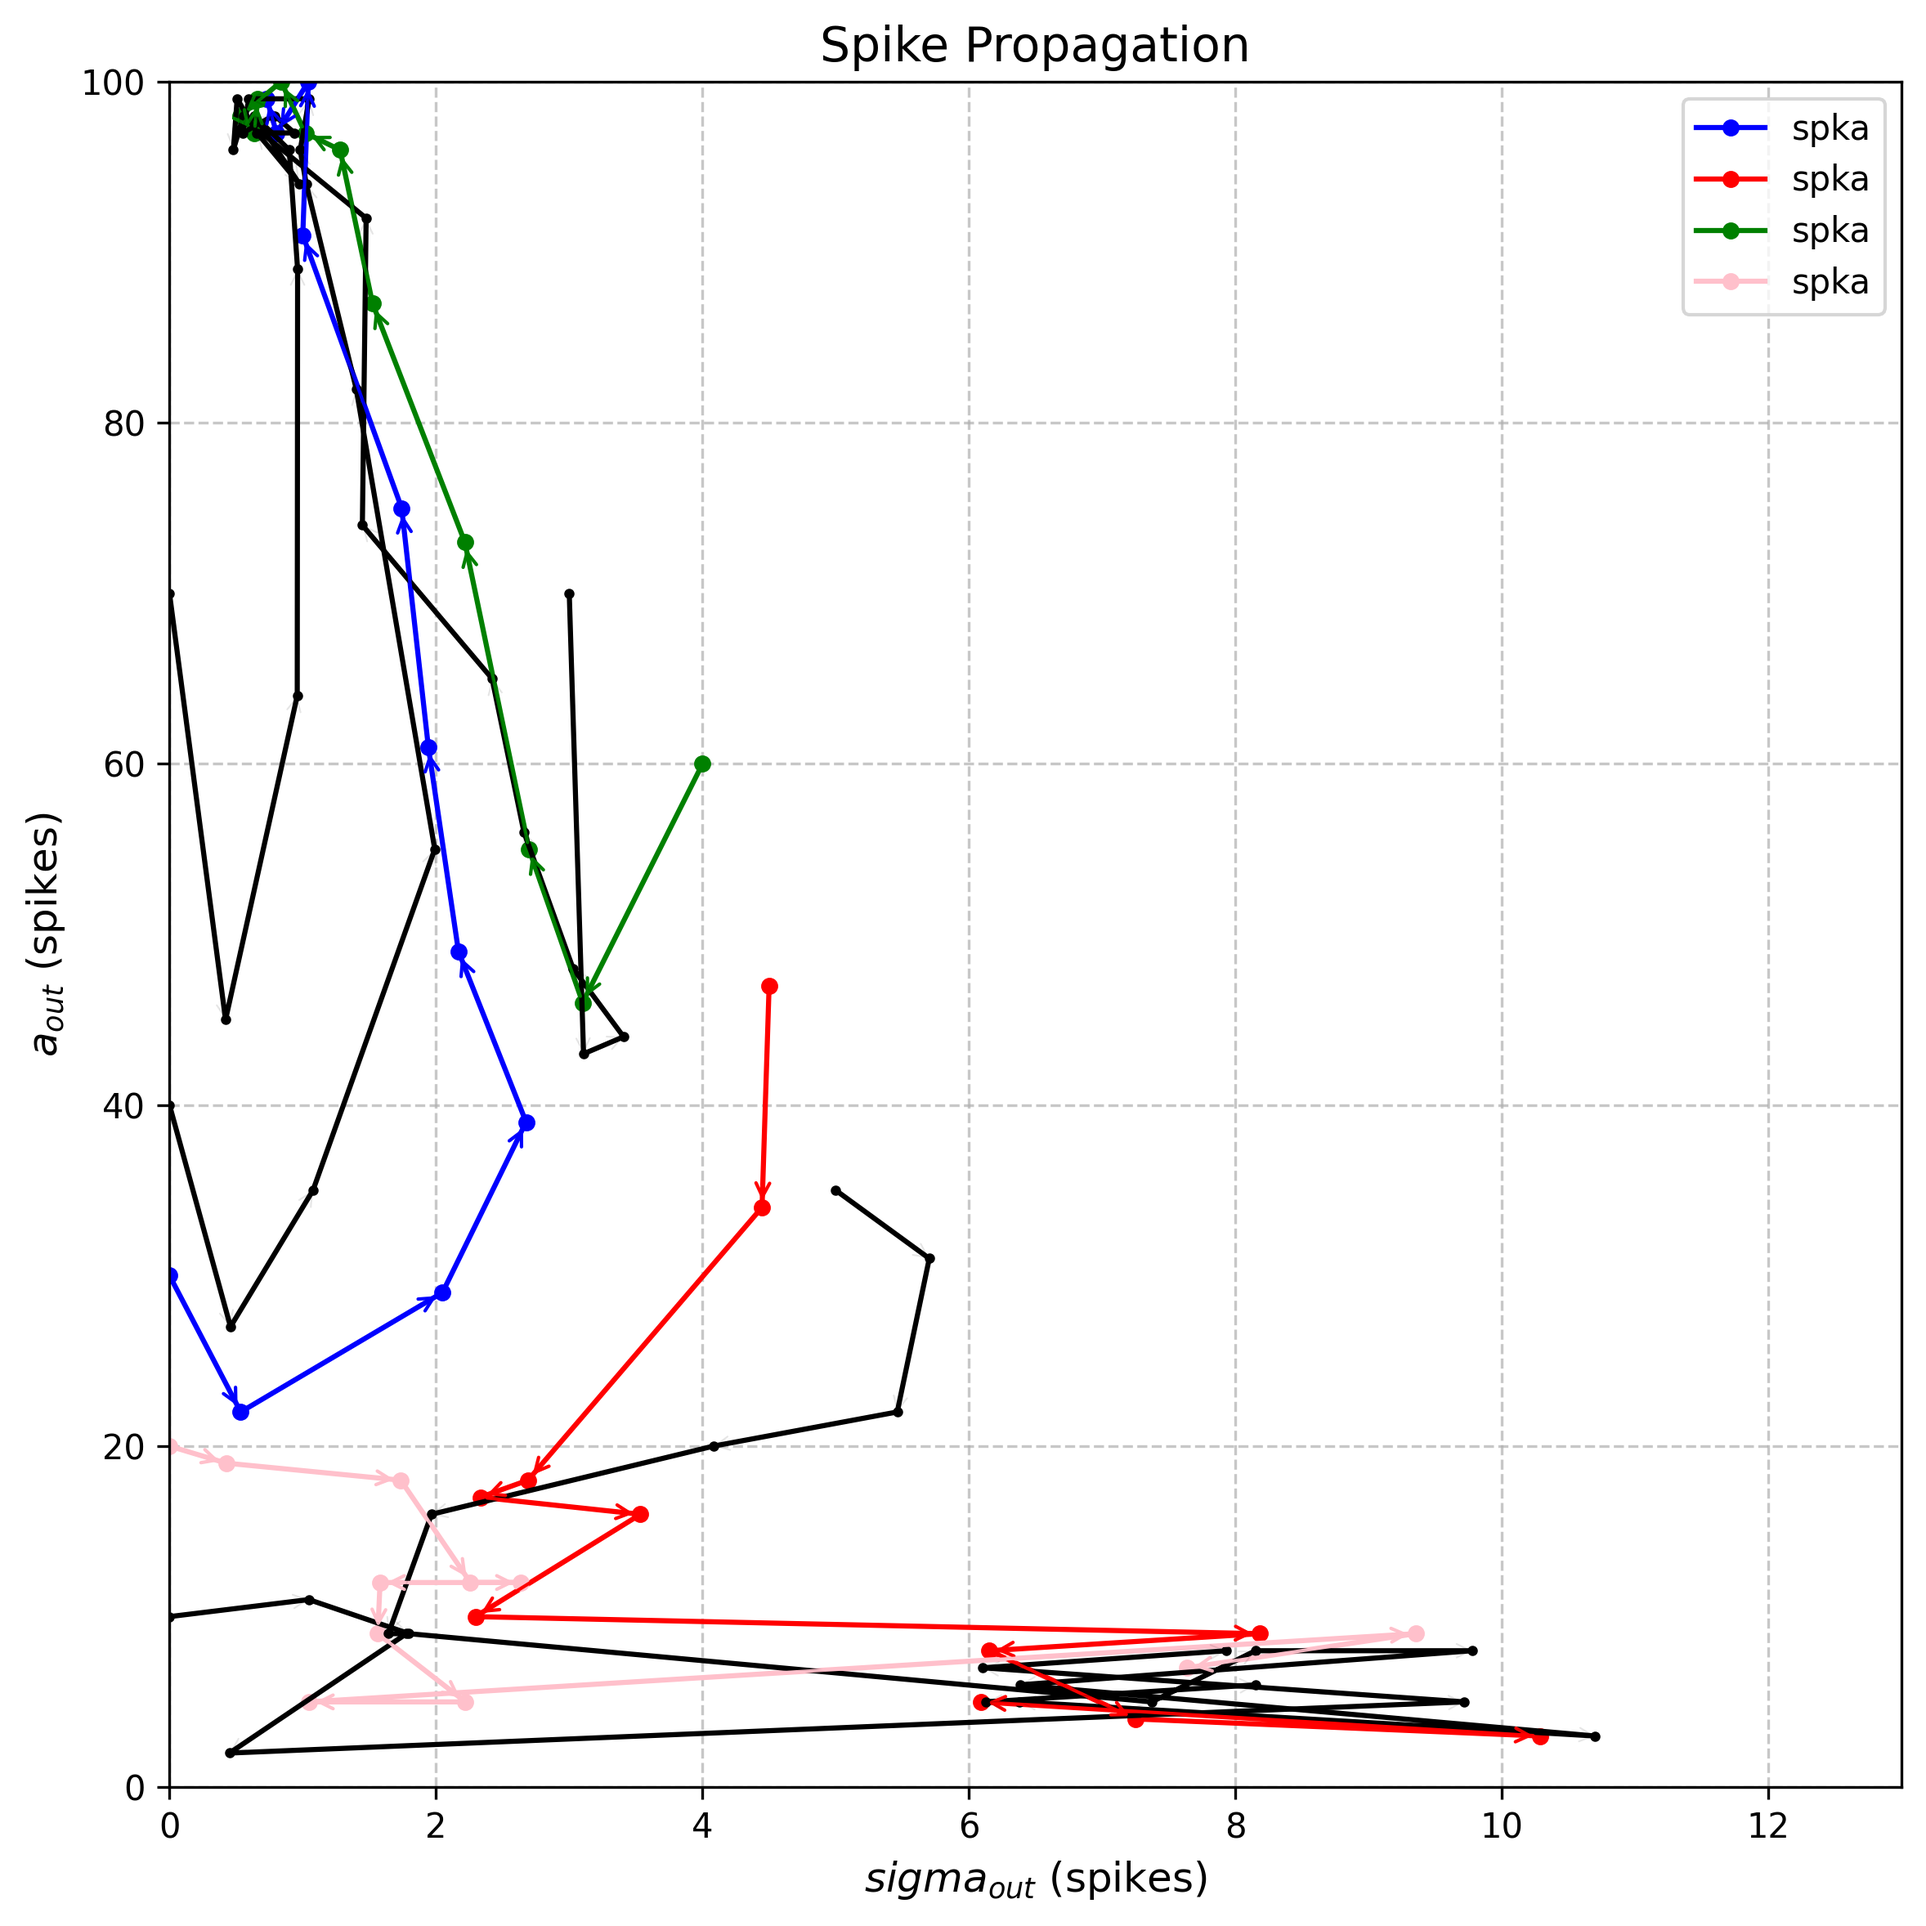
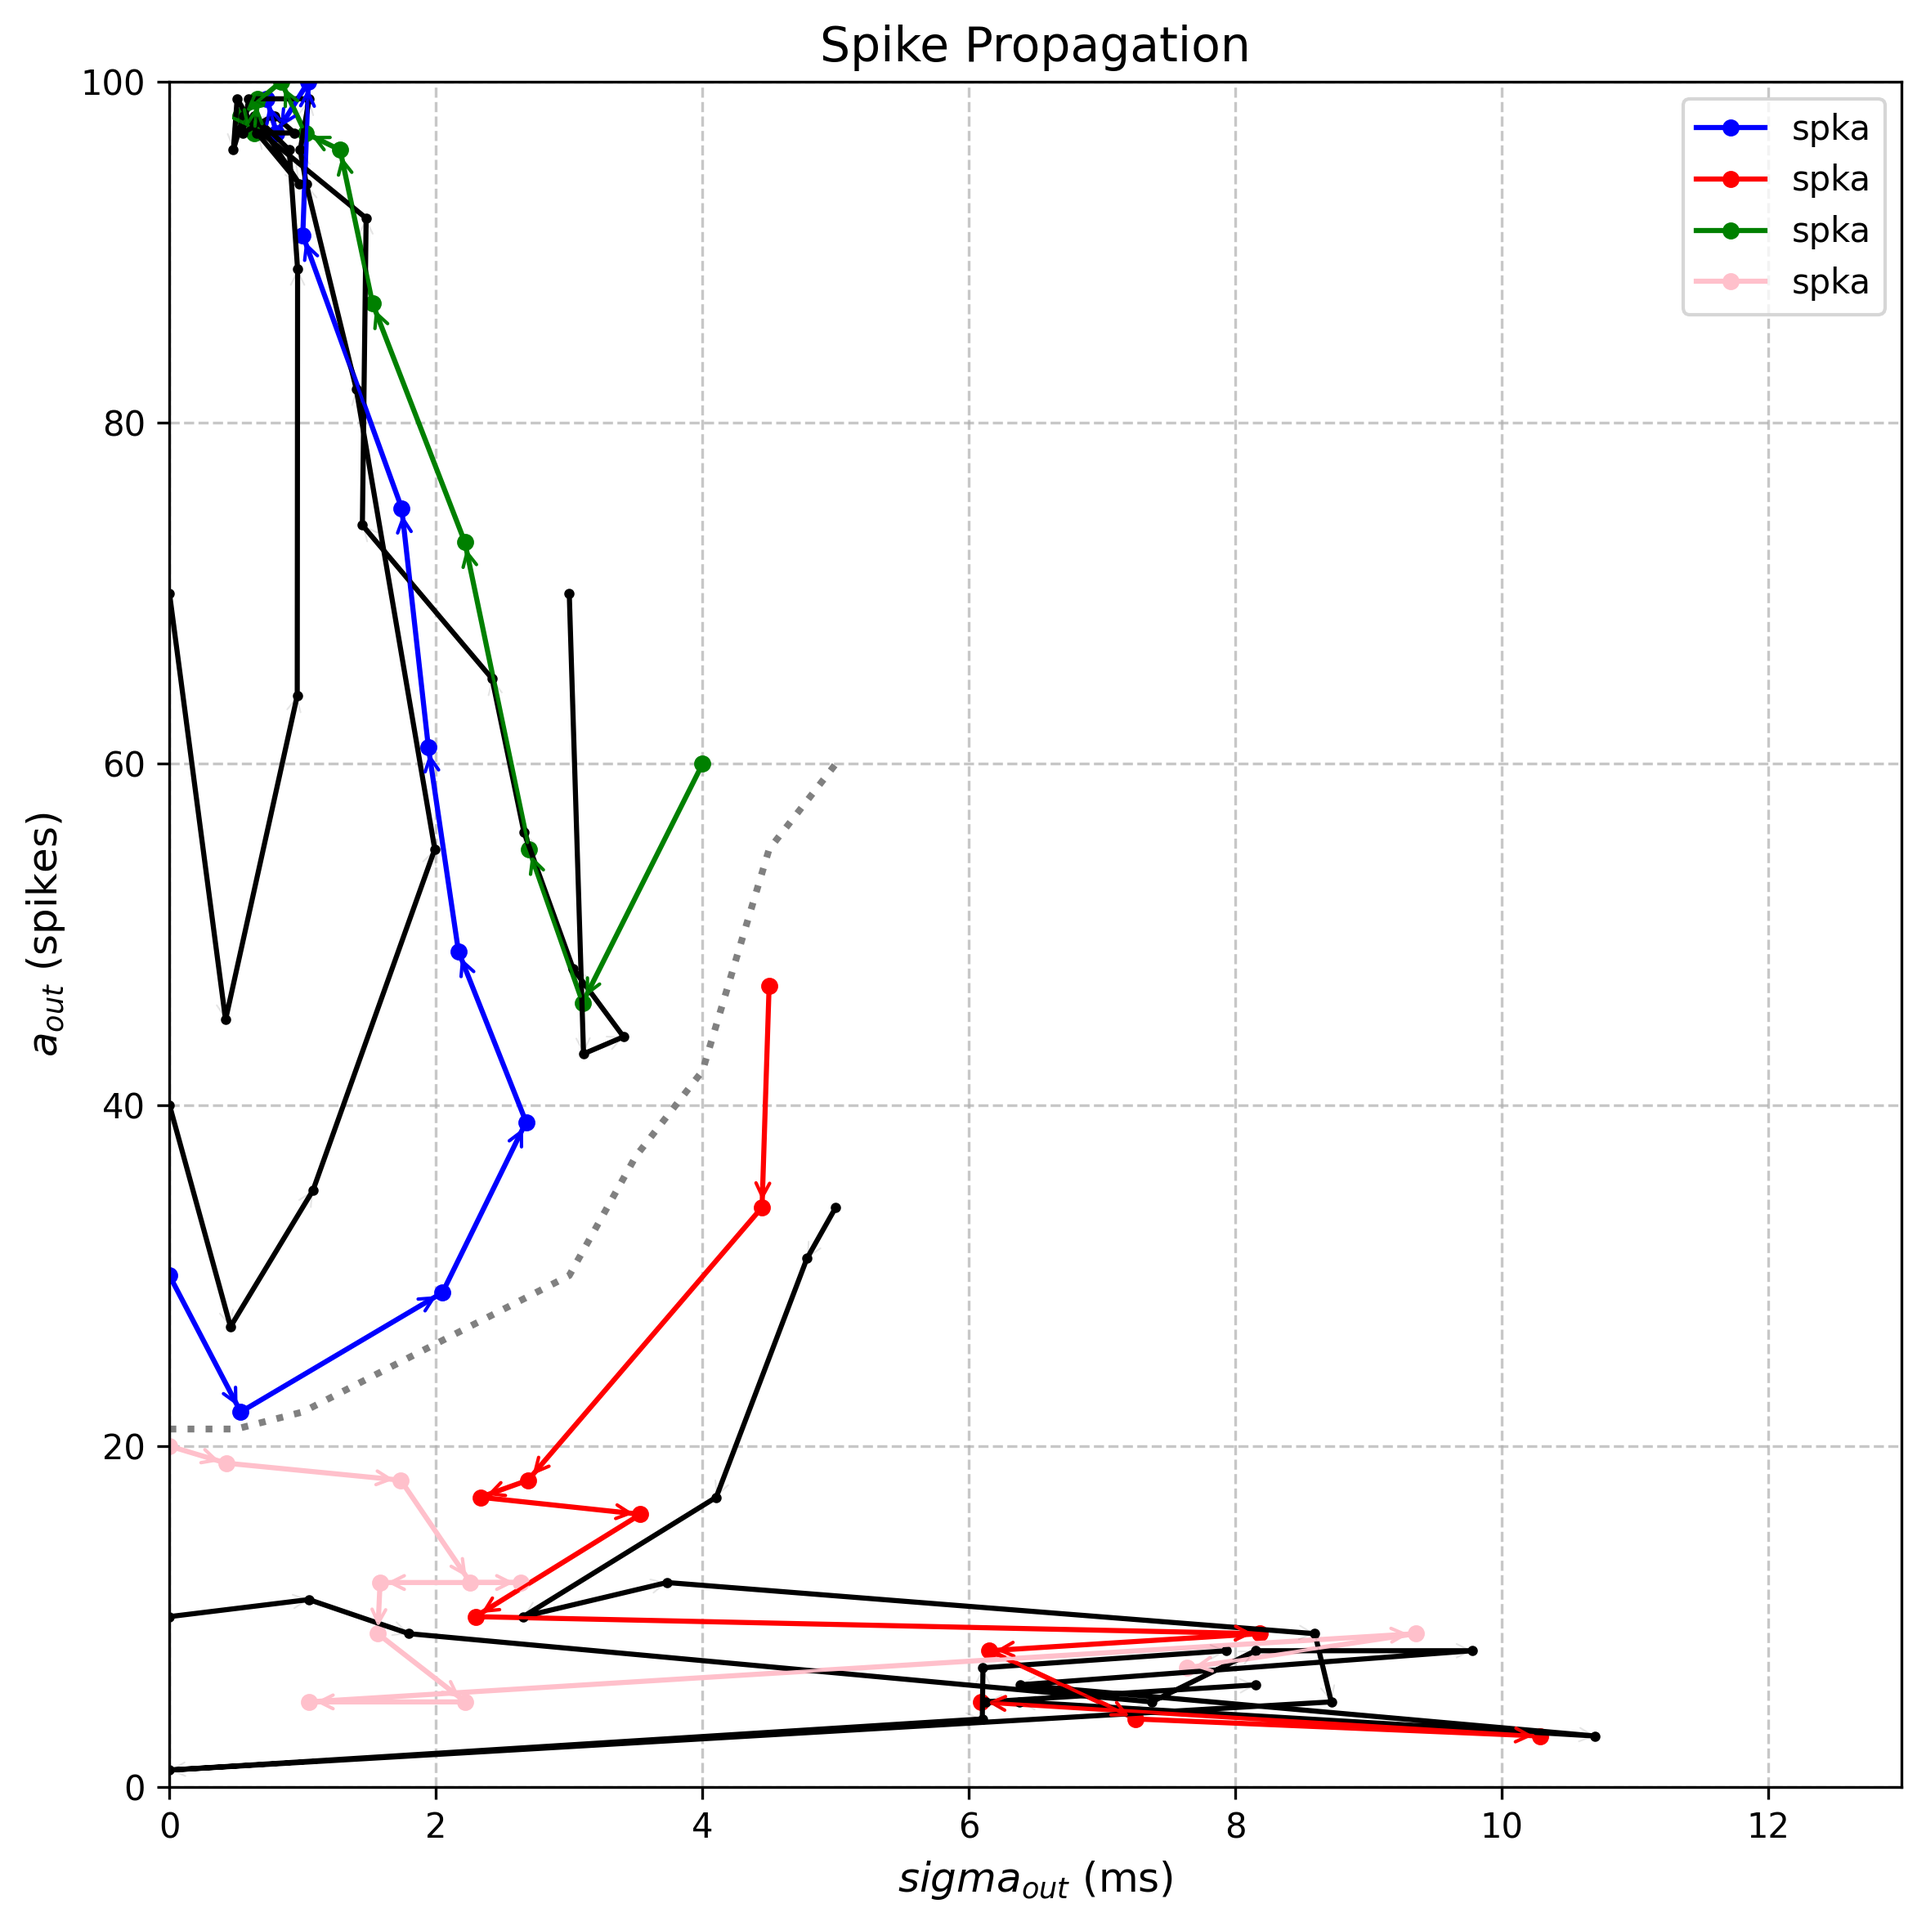
fig3 border plot & update readme

diff --git a/diesmann_1999/fig3/fig3_c.py b/diesmann_1999/fig3/fig3_c.py
@@ -215,9 +215,9 @@ for num_signal in range(10, 100, 30):
                                  shrinkB=0),
                     )
 
-num_signal = 35
+num_signal = 34
 var_signal = 5
-seed = 57
+seed = 20
 spkvar, spka = run_single_packet_w(num_signal, var_signal, seed)
 a_in = np.concatenate(([var_signal], spkvar[:]))
 a_out = np.concatenate(([num_signal], spka[:]))
@@ -250,8 +250,15 @@ for i in range(len(a_in) - 1):
 # Add y=x line
 # plt.plot([0, 100], [0, 100], 'k--', alpha=0.7)
 
+# Define the points for the curved line
+x = np.array([0, 0.5, 1, 1.5, 2, 2.5, 3, 3.5, 4, 4.5, 5])
+y = np.array([21, 21, 22, 24, 26, 28, 30, 37, 42, 55, 60])
+
+# Plot the dotted line
+plt.plot(x, y, color='gray', linestyle=':', linewidth=2)
+
 # Set labels and title
-plt.xlabel('$sigma_{out}$ (spikes)', fontsize=12)
+plt.xlabel('$sigma_{out}$ (ms)', fontsize=12)
 plt.ylabel('$a_{out}$ (spikes)', fontsize=12)
 plt.title('Spike Propagation', fontsize=14)
 

diff --git a/README.md b/README.md
@@ -1,2 +1,9 @@
 ## NEURON/NetPyNE tutorial
 Following tutorial links for [NEURON](https://nrn.readthedocs.io/en/8.2.4/index.html), [NetPyNE](http://doc.netpyne.org/tutorial.html) with officially released documents.
+
+## Diesmann et al.(1999) reproduction
+Reproducing 'Stable propagation of synchronous spiking in cortical neural networks' by Diesmann et al., figures explaining the stable propagation of spike pulse-packets.
+
+Shows accumulating and dissolving neuron signal packets with attractors and saddle points in neuron space.
+
+Experiment was done with w=100 neurons with 10 cortical layers with HH modeled neurons.
